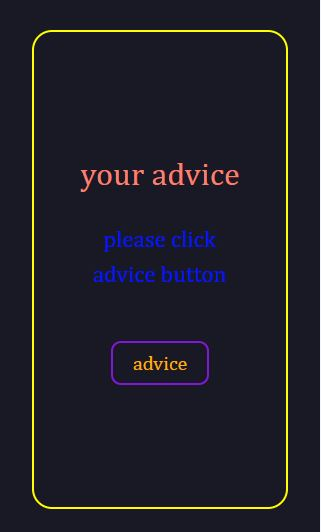
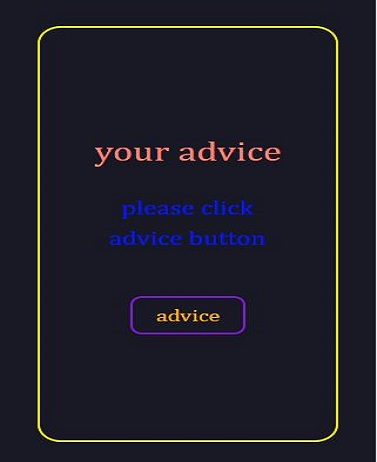
feat: add new project(advice app)

diff --git a/src/components/Projects.jsx b/src/components/Projects.jsx
@@ -3,27 +3,18 @@ import Badge from 'react-bootstrap/Badge';
 import Stack from 'react-bootstrap/Stack';
 // import Button from 'react-bootstrap/Button';
 import Card from 'react-bootstrap/Card';
-import myproject from '../portfolio.jpg'
+
 import { Container } from 'react-bootstrap';
 
-export const Projects = () => {
+export const Projects = (props) => {
   return (
     <section id='projects'>
-      <h2 className='text-center text-white pb-4'>My Projects</h2>
+      
       <Container className='d-flex justify-content-center pb-4'>
 
         <Card style={{ width: '18rem' }}>
-          <Card.Img variant="top" src={myproject} />
+          <Card.Img variant="top" src={props.proImg} />
           <Card.Body className='text-center'>
-            {/* <div >
-          <ul list-group-horizontal d-flex flex-row justify-content-between >
-            <li>HTML</li>
-            <li>CSS</li>
-            <li>Bootstrap</li>
-            <li>JavaScript</li>
-            <li>React Js</li>
-          </ul>
-          </div> */}
             <div >
               <Stack direction="horizontal" gap={3} className='d-flex flex-row justify-content-center flex-wrap p-2'>
                 <Badge bg="primary">HTML</Badge>
@@ -36,9 +27,9 @@ export const Projects = () => {
 
               </Stack>
             </div>
-            <Card.Title >My Portfolio</Card.Title>
+            <Card.Title >{props.title}</Card.Title>
             <Card.Text>
-              This project is my Portfolio.
+              {props.content}
             </Card.Text>
             {/* <Button variant="primary" target='_blank' href='https://sivarajagopalans.github.io/My-Portfolio/#skills'>Go live</Button> */}
           </Card.Body>

diff --git a/src/App.js b/src/App.js
@@ -15,7 +15,8 @@ import reactlogo from '../src/components/images/react.svg'
 import gitlogo from '../src/components/images/git.svg'
 import githublogo from '../src/components/images/github.svg'
 import vscodelogo from '../src/components/images/vs-code.svg'
-
+import portfolio from '../src/portfolio.jpg'
+import adviceApp from '../src/advice app.JPG'
 
 function App() {
   return (
@@ -41,7 +42,17 @@ function App() {
 
         </Row>
       </Container>
-      <Projects/>
+      <Container>
+      <h2 className='text-center text-white pb-4'>My Projects</h2>
+      <Row>
+        <Col sm={12} md={6} lg={6}>
+      <Projects proImg={portfolio} title='My Portfolio' content="This project is my Portfolio."/>
+      </Col>
+      <Col sm={12} md={6} lg={6}>
+      <Projects proImg={adviceApp} title='Advice Website' content="This project give advices."/>
+      </Col>
+      </Row>
+      </Container>
       <div className=''>
       <Footer/>
       </div>
